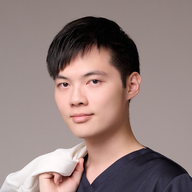
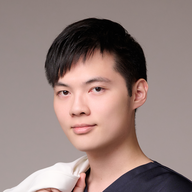
Add files via upload

diff --git a/index.html b/index.html
@@ -35,6 +35,7 @@
 <meta name="googlebot" content="noindex, nofollow, noarchive, nosnippet, noimageindex">
 <meta name="bingbot" content="noindex, nofollow, noarchive, nosnippet, noimageindex">
 <title>Yi-Syuan Chen</title>
+<meta name="apple-mobile-web-app-title" content="YS Chen">
 <script>
   (function () {
     var d = document.documentElement;